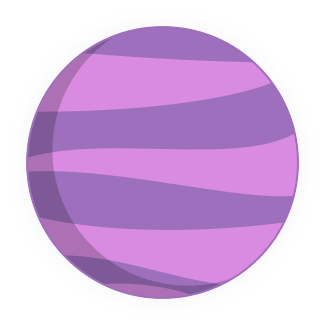
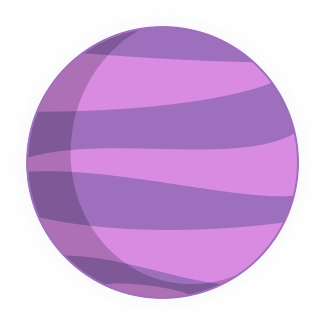
tweaked gas giant image and position.

Changed region(s): [[0.1538, 0.0923, 0.5538, 0.8923], [0.6462, 0.8615, 0.6769, 0.8923]]

diff --git a/ember/app/styles/pages/home.scss b/ember/app/styles/pages/home.scss
@@ -43,10 +43,17 @@
 	}
 
 
+	.hp-planet {
+		position: absolute;
+		opacity: 0.6;
+
+		@include breakpoint($bp-s) {
+			opacity: 1;
+		}
+	}
 
 	.hp-planet-001 {
 		$planet001-size: 264px;
-		position: absolute;
 		top: 200px; right: 5%;
 		margin-right: -140px;
 		background: transparent url('/images/planets/planet001.png') 0 0 no-repeat;
@@ -68,9 +75,8 @@
 
 	.hp-planet-003 {
 		$planet003-size: 325px;
-		position: absolute;
-		top: 1200px; left: 18%;
-		margin-left: -100px;
+		bottom: 500px; left: 10%;
+		margin-left: 0px;
 		background: transparent url('/images/planets/planet003.png') 0 0 no-repeat;
 		width: $planet003-size; height: $planet003-size;
 	}
